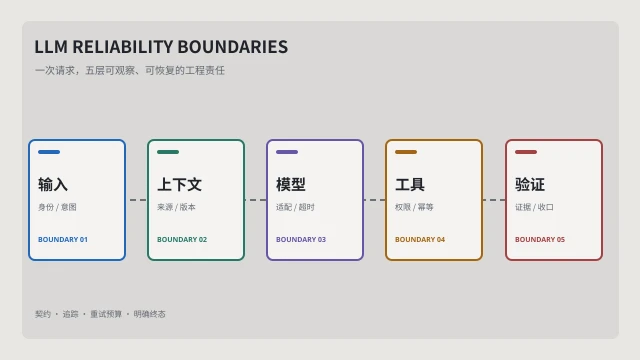
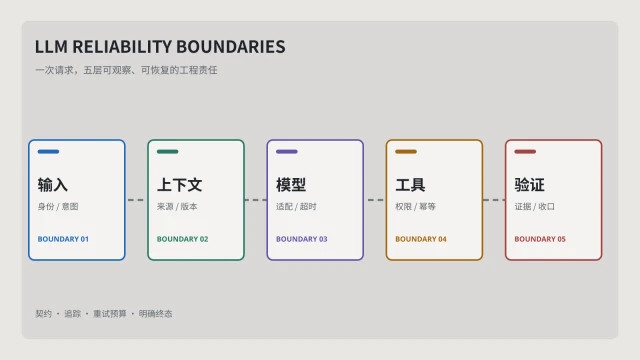
fix: make editorial builds reproducible

diff --git a/scripts/generate-assets.ts b/scripts/generate-assets.ts
@@ -126,39 +126,43 @@ const reliabilityMasterPath = join(
   outputDirectory,
   "ai-reliability-boundaries.webp",
 );
-const regenerateReliabilityMaster =
-  process.env.REGENERATE_EDITORIAL_MASTER === "1";
-const reliabilityMaster = regenerateReliabilityMaster
+// Font-backed masters are authored explicitly; normal builds only resize the committed master.
+const regenerateAuthoredRasters =
+  process.env.REGENERATE_AUTHORED_RASTERS === "1";
+const reliabilityMaster = regenerateAuthoredRasters
   ? await sharp(reliabilityDiagram(1600, 900))
       .webp({ effort: 4, quality: 90 })
       .toBuffer()
   : await readFile(reliabilityMasterPath);
-if (regenerateReliabilityMaster) {
+if (regenerateAuthoredRasters) {
   await writeFile(reliabilityMasterPath, reliabilityMaster);
 }
-await Promise.all([
-  ...[640, 960, 1600].map((width) =>
-    sharp(diagram(width, Math.round((width * 9) / 16), workbenchPalette))
-      .webp({ effort: 4, quality: 88 })
-      .toFile(
-        join(
-          outputDirectory,
-          width === 1600
-            ? "publishing-workbench.webp"
-            : `publishing-workbench-${width}.webp`,
-        ),
+const authoredRasterTasks = regenerateAuthoredRasters
+  ? [
+      ...[640, 960, 1600].map((width) =>
+        sharp(diagram(width, Math.round((width * 9) / 16), workbenchPalette))
+          .webp({ effort: 4, quality: 88 })
+          .toFile(
+            join(
+              outputDirectory,
+              width === 1600
+                ? "publishing-workbench.webp"
+                : `publishing-workbench-${width}.webp`,
+            ),
+          ),
       ),
-  ),
-  sharp(diagram(1200, 630, socialPalette))
-    .png({ compressionLevel: 9 })
-    .toFile(join(outputDirectory, "default-social.png")),
+      sharp(diagram(1200, 630, socialPalette))
+        .png({ compressionLevel: 9 })
+        .toFile(join(outputDirectory, "default-social.png")),
+    ]
+  : [];
+await Promise.all([
+  ...authoredRasterTasks,
   ...[640, 960].map((width) =>
     sharp(reliabilityMaster)
       .resize(width, Math.round((width * 9) / 16))
       .webp({ effort: 4, quality: 90 })
-      .toFile(
-        join(outputDirectory, `ai-reliability-boundaries-${width}.webp`),
-      ),
+      .toFile(join(outputDirectory, `ai-reliability-boundaries-${width}.webp`)),
   ),
   ...brandIconTargets.map(([filename, size]) =>
     sharp(mark)

diff --git a/tests/unit/content.test.ts b/tests/unit/content.test.ts
@@ -24,6 +24,10 @@ function nullable(value: string): string | null {
   return value;
 }
 
+function nullableTimestamp(value: string | null): string | null {
+  return value;
+}
+
 function validInput() {
   return {
     files: [
@@ -59,7 +63,8 @@ function validInput() {
         cover_alt: nullable("蓝色数据边界示意图"),
         cover_decorative: false,
         cover_image: IDS.file,
-        date_updated: null,
+        date_created: "2026-08-01T00:30:00+08:00",
+        date_updated: nullableTimestamp(null),
         featured: true,
         id: IDS.post,
         kind: "article",
@@ -250,6 +255,22 @@ describe("published content boundary", () => {
     ]);
   });
 
+  it("ignores Directus maintenance timestamps until a later local day", () => {
+    const input = validInput();
+    const [post] = input.posts;
+    if (!post) throw new Error("test fixture is empty");
+    post.date_created = "2026-08-10T09:00:00.000Z";
+    post.date_updated = "2026-08-10T12:00:00.000Z";
+    expect(
+      first([...parsePublishedSnapshot(input).posts]).updatedAt,
+    ).toBeNull();
+
+    post.date_updated = "2026-08-11T00:00:00.000Z";
+    expect(first([...parsePublishedSnapshot(input).posts]).updatedAt).toBe(
+      "2026-08-11T00:00:00.000Z",
+    );
+  });
+
   it("uses explicit SDK fields and filters posts at the API", async () => {
     const input = validInput();
     const requests: URL[] = [];
@@ -283,6 +304,7 @@ describe("published content boundary", () => {
     expect(postsRequest).toBeDefined();
     expect(postsRequest?.search).toContain("published");
     expect(postsRequest?.searchParams.get("fields")).toContain("status");
+    expect(postsRequest?.searchParams.get("fields")).toContain("date_created");
     expect(postsRequest?.searchParams.get("fields")).not.toContain("*");
     expect(requests.map((url) => url.pathname)).toEqual(
       expect.arrayContaining([

diff --git a/tests/unit/media.test.ts b/tests/unit/media.test.ts
@@ -117,14 +117,14 @@ describe("public media assets", () => {
     const firstDirectory = await temporaryDirectory();
     const secondDirectory = await temporaryDirectory();
 
-    expect(fixture.bytes).toHaveLength(19_344);
+    expect(fixture.bytes).toHaveLength(18_500);
     expect(digest).toBe(
[2 lines of base64/hex data omitted]
     );
     expect(fixture).toMatchObject({
       filename: "ai-reliability-boundaries-960.webp",
       mimeType: "image/webp",
-      title: "AI 应用五层可靠性边界（SHA-256 ff8294f4b7b7）",
+      title: "AI 应用五层可靠性边界（SHA-256 666002f894f4）",
     });
     expect(parseDirectusMediaFile(record)).toMatchObject({
       filename: fixture.filename,
@@ -144,13 +144,13 @@ describe("public media assets", () => {
       {
         height: 360,
         mimeType: "image/webp",
-        src: `/_media/${FILE_ID}-640w-cda34074e4f97d50.webp`,
+        src: `/_media/${FILE_ID}-640w-4f0011de2edeb027.webp`,
         width: 640,
       },
       {
         height: 540,
         mimeType: "image/webp",
-        src: `/_media/${FILE_ID}-960w-8ccae1d4b81420df.webp`,
+        src: `/_media/${FILE_ID}-960w-e59e2cf2a828fa42.webp`,
         width: 960,
       },
     ] as const;

diff --git a/tests/unit/brand-assets.test.ts b/tests/unit/brand-assets.test.ts
@@ -107,11 +107,11 @@ describe("brand and font assets", () => {
       ],
       [
         "ai-reliability-boundaries-640.webp",
[2 lines of base64/hex data omitted]
       ],
       [
         "ai-reliability-boundaries-960.webp",
[2 lines of base64/hex data omitted]
       ],
       [
         "ai-reliability-boundaries.webp",

diff --git a/src/lib/content.ts b/src/lib/content.ts
@@ -976,7 +976,7 @@ function fixtureInput(): unknown {
         duration: null,
         filename_disk: "ai-reliability-boundaries-960.webp",
         filename_download: "ai-reliability-boundaries-960.webp",
-        filesize: 19_344,
+        filesize: 18_500,
         focal_point_x: null,
         focal_point_y: null,
         folder: PUBLISHABLE_ASSETS_FOLDER_ID,

diff --git a/.trellis/spec/backend/database-guidelines.md b/.trellis/spec/backend/database-guidelines.md
@@ -47,6 +47,9 @@ the exact uploaded bytes must pass the same transform path as production media.
   title as its idempotency key and never replaces an existing original's bytes.
 - Regression boundary: `emitPublicMediaAsset(record, bytes, options)` emits and
   decodes every expected responsive variant.
+- Authored-raster boundary: `pnpm assets:generate` resizes committed masters;
+  `REGENERATE_AUTHORED_RASTERS=1 pnpm assets:generate` explicitly re-renders
+  font-backed masters before deriving variants.
 
 ### 3. Contracts
 
@@ -60,6 +63,10 @@ the exact uploaded bytes must pass the same transform path as production media.
   administrator maintenance action.
 - The unit test imports the same fixture helper as the seed. A generated
   lookalike or metadata-only Sharp check does not cover this contract.
+- Normal builds must not re-render font-backed authored masters. Host font
+  availability can change raster bytes even when the SVG template is unchanged;
+  master regeneration is an explicit authoring action, never a prebuild side
+  effect.
 
 ### 4. Validation & Error Matrix
 
@@ -72,6 +79,7 @@ the exact uploaded bytes must pass the same transform path as production media.
 | Metadata reads but variant transform fails | Test and Directus build fail closed |
 | MIME, byte length, or dimensions disagree | Media validation fails with file context |
 | File is outside the publishable folder | Public build rejects it |
+| Normal build changes an authored master | Build is non-reproducible; keep the committed master and resize only |
 
 ### 5. Good/Base/Bad Cases
 
@@ -95,6 +103,9 @@ the exact uploaded bytes must pass the same transform path as production media.
   Directus-backed Astro/Pagefind build.
 - Make the schema check accept a clean install with no legacy original. When a
   legacy fixture is present, assert that it remains unchanged and unreferenced.
+- After explicit master regeneration, run `pnpm assets:generate` twice and
+  compare committed master and variant SHA-256 values; the second run must leave
+  every raster byte unchanged.
 
 ### 7. Wrong vs Correct
 

diff --git a/.trellis/tasks/08-10-polish-ai-content/research/final-visual/verification-summary.md b/.trellis/tasks/08-10-polish-ai-content/research/final-visual/verification-summary.md
@@ -44,9 +44,10 @@ the stacked mobile composition. The complete matrix was recaptured afterward.
 
 ## Automated gate
 
-`pnpm verify` passed before the final visual-only CSS adjustment with 57 unit
-tests and 59 Chromium tests. The final gate is rerun after this evidence is
-recorded. Directus schema application, two idempotent seeds, schema checks, and
-a Directus-backed build passed in Workstream A. Scoped Directus build-token and
-permission checks remain unavailable under the installed Core license; the
+The final `pnpm verify` passed after the visual review and follow-up reliability
+fixes with 58 unit tests and 59 Chromium tests. It also rebuilt and indexed all
+12 content pages, passed the operations suite, and matched five inline-script
+CSP hashes. Directus schema application, two idempotent seeds, schema checks,
+and a Directus-backed build passed in Workstream A. Scoped Directus build-token
+and permission checks remain unavailable under the installed Core license; the
 license guard was not weakened.
